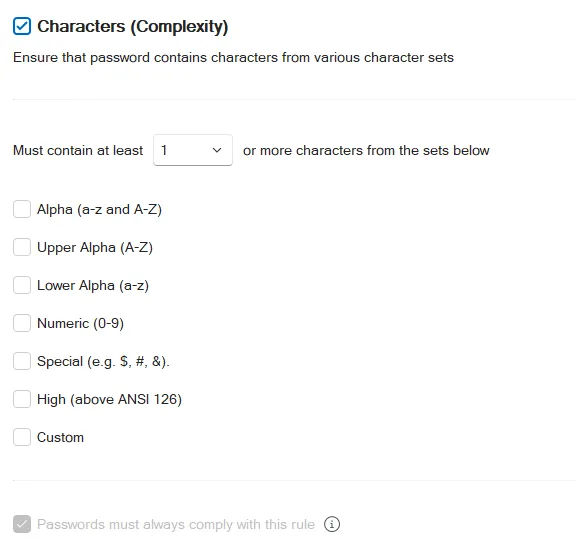
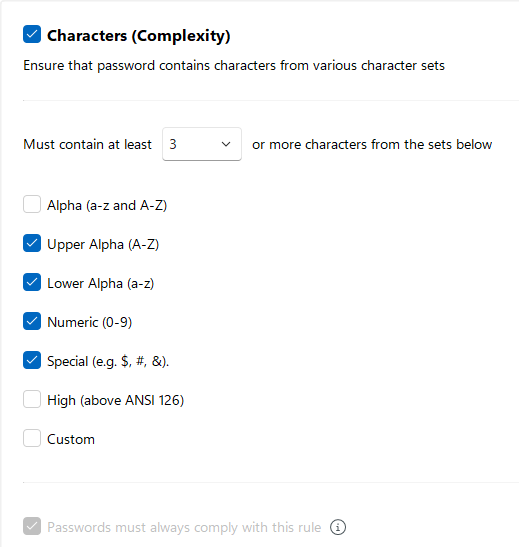
Fix "Characters (Complexity) Rule"

diff --git a/docs/passwordpolicyenforcer/11.2/admin/manage-policies/rules/complexity_rule.md b/docs/passwordpolicyenforcer/11.2/admin/manage-policies/rules/complexity_rule.md
@@ -1,44 +1,25 @@
 ---
 title: "Characters (Complexity)"
-description: "Characters (Complexity)"
+description: "Configure the Characters (Complexity) rule to require passwords to contain characters from a minimum number of character sets, such as uppercase, lowercase, numeric, and special characters."
 sidebar_position: 30
 ---
 
 # Characters (Complexity) Rule
 
-The Complexity rule rejects passwords that don't contain characters from a variety of character
-sets. Using several character types can make passwords more difficult to crack.
+The Complexity rule rejects passwords that don't contain characters from a variety of character sets. A complex password takes longer to brute-force crack than a simple password of the same length.
 
 ![Character Complexity Rule](/images/passwordpolicyenforcer/11.2/administration/charcomplexity.webp)
 
-Select the **Characters (Complexity)** checkbox to enable the Character Complexity rule.
+Select the **Characters (Complexity)** checkbox to enable the Complexity rule.
 
-Select the number of required character sets. Passwords are rejected if they don't contain
-characters from at least the specified number of character sets.
+Select a number from the **Must contain at least** dropdown. This rule rejects passwords if they don't contain characters from at least the specified number of character sets. This number must be less than or equal to the number of character sets selected below it.
 
-Select the available character sets. The number of available character sets must be equal to or
-greater than the number of required character sets.
+Select the checkbox beside each required character set. Password Policy Enforcer (PPE) has seven character sets. The [Policy Properties](../policy_properties.md) page has more information about PPE's character sets. You can also use the [Characters (Granular)](character_rules.md) rules to customize the default character sets.
 
-Select the **Passwords must always comply with this rule** checkbox to make the Complexity rule
-mandatory. Password Policy Enforcer rules are mandatory by default, but can be made optional by
-changing the Reject passwords that don't comply with value in the Policy Properties page. A
-mandatory rule can still be disabled when a passphrase is used. See the [Passphrase](/docs/passwordpolicyenforcer/11.2/admin/manage-policies/passphrases.md)
-topic for additional information.
+If the number in the dropdown is less than the number of selected character sets, then users have some flexibility in their choice of characters. For example, in the screenshot above, the password must contain only three of the four selected character sets.
 
 :::note
-The Complexity rule uses custom character set definitions from the Character rules, even
-if the Character rules are disabled.
+This rule uses custom character set definitions from the [Characters (Granular)](character_rules.md) rules, even if you disable the granular rules.
 :::
 
-
-This default character set contains the following:
-
-| Rule        | Default character set                                                    |
-| ----------- | ------------------------------------------------------------------------ |
-| Alpha Lower | Lowercase alphabetic (a-z)  |
-| Alpha Upper | Uppercase alphabetic (A-Z) |
-| Alpha       | Uppercase and lowercase alphabetic (a-z & A-Z) |
-| Numeric     | Numerals (0-9) |
-| Special     | All characters not included above                                        |
-| High        | All characters above ANSI 126                                            |
-| Custom      | No default characters                                                    |
+Select the **Passwords must always comply with this rule** checkbox to make the Complexity rule mandatory. Rules are mandatory by default, but you can make some of them optional by changing the **Passwords must comply with** setting on the policy's [**Properties**](../policy_properties.md) tab. The [Passphrase](../passphrases.md) feature can still disable a mandatory rule.

diff --git a/docs/passwordpolicyenforcer/11.2/admin/manage-policies/policy_properties.md b/docs/passwordpolicyenforcer/11.2/admin/manage-policies/policy_properties.md
@@ -29,12 +29,23 @@ Select the **Default characters set**. The default value (Netwrix Password Polic
 users to comply with rules that use the Password Policy Enforcer character set. Choose the alternate
 option (Windows) to have users comply with rules that use the Windows character set.
 
+PPE's default character sets are:
+
+| Character Set | Default characters                                                       |
+| ------------- | ------------------------------------------------------------------------ |
+| Alpha Lower   | Lowercase alphabetic (a-z)                                               |
+| Alpha Upper   | Uppercase alphabetic (A-Z)                                               |
+| Alpha         | Uppercase and lowercase alphabetic (a-z and A-Z)                         |
+| Numeric       | Numerals (0-9)                                                           |
+| Special       | All characters not included above                                        |
+| High          | All characters above ANSI 126                                            |
+| Custom        | No default characters                                                    |
+
 :::note
 Only Password Policy Enforcer 10.0 and higher contain the Windows character set. Password
 Policy Enforcer 9, Netwrix Password Reset and Password Policy Enforcer/Web 7 (and older for all
 products) always use the Password Policy Enforcer character set.
 :::
-
 
 - Some languages such as Japanese don't distinguish between uppercase and lowercase. These
   characters are in the Windows Alpha set, but not in the Upper or Lower sets.